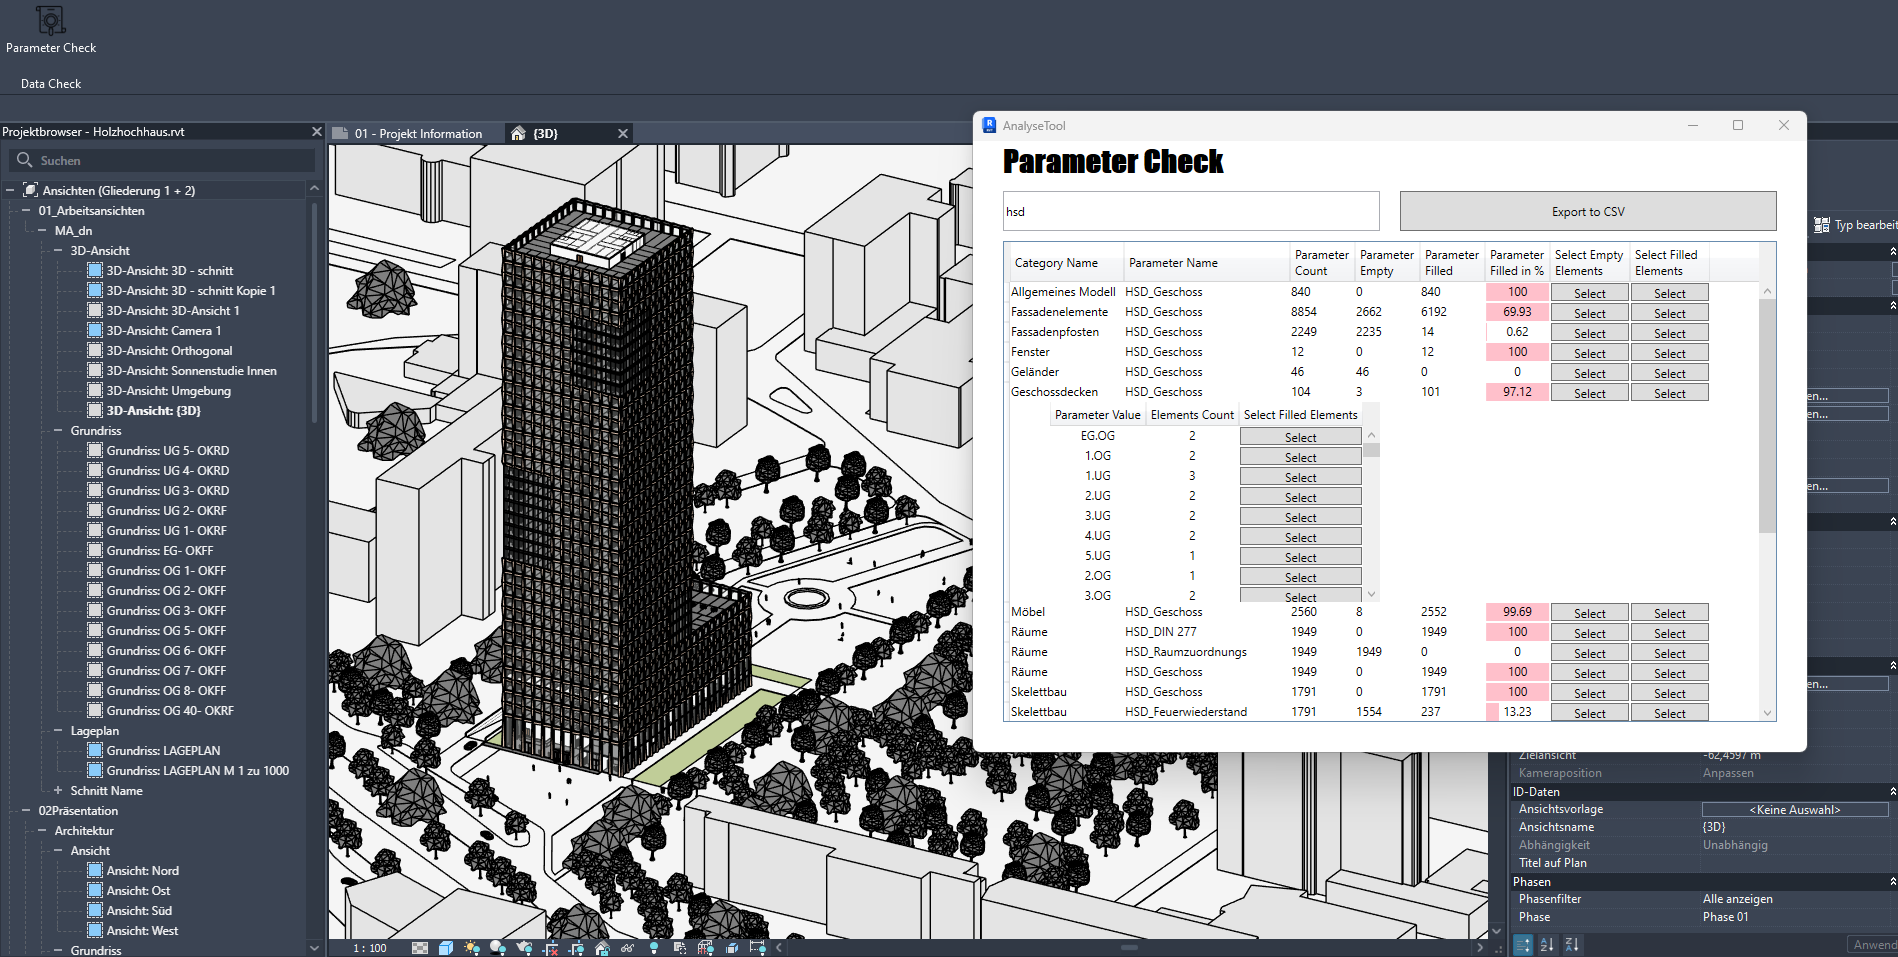
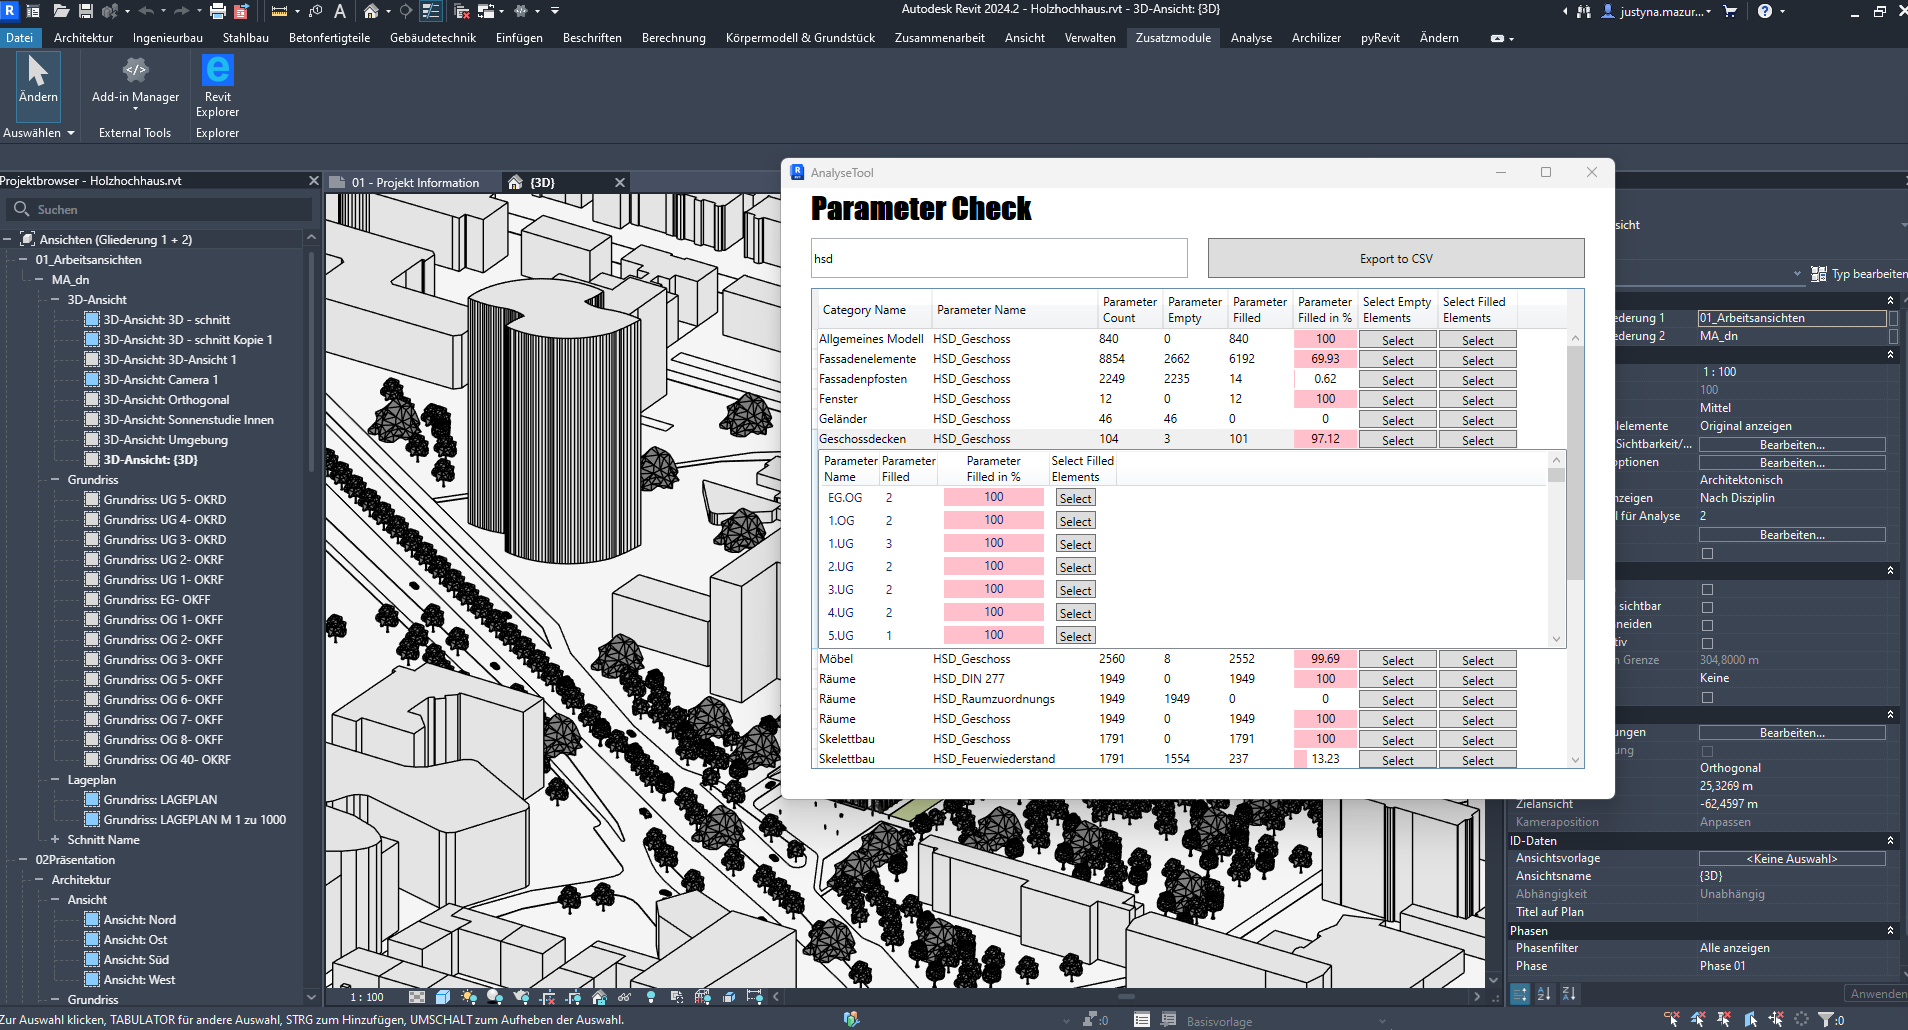
update to check filled data.

diff --git a/AnalyseTool/Views/SubViewAnalyseTool.xaml b/AnalyseTool/Views/SubViewAnalyseTool.xaml
@@ -62,8 +62,7 @@
                   CanUserDeleteRows="False"
                   x:Name="dataGridData"
                   GridLinesVisibility="None"
-                  Grid.Row="1"
-                  LoadingRow="DataGrid_LoadingRow">
+                  Grid.Row="1">
             
             <DataGrid.RowStyle>
                 <Style TargetType="DataGridRow">
@@ -163,8 +162,58 @@
              <!--RowDetailsTemplate to display child elements--> 
             <DataGrid.RowDetailsTemplate>
                 <DataTemplate>
-                    <ScrollViewer VerticalScrollBarVisibility="Auto" MaxHeight="200">
-                        <DataGrid ItemsSource="{Binding ChildParameters}"
+                    <Grid MaxHeight="200">
+
+                    <ListView ItemsSource="{Binding ChildParameters}"
+                                  d:ItemsSource="{d:SampleData ItemCount=2}"
+                                  Grid.Row="1"
+                                  x:Name="dataGridData">
+                            <ListView.View>
+                                <GridView>
+                                    <GridViewColumn>
+                                        <GridViewColumnHeader Content="Parameter&#10;Name"/>
+                                        <GridViewColumn.CellTemplate>
+                                            <DataTemplate>
+                                                <TextBlock Text="{Binding Name}"/>
+                                            </DataTemplate>
+                                        </GridViewColumn.CellTemplate>
+                                    </GridViewColumn>
+                                    <GridViewColumn>
+                                        <GridViewColumnHeader Content="Parameter&#10;Filled"/>
+                                        <GridViewColumn.CellTemplate>
+                                            <DataTemplate>
+                                                <TextBlock Text="{Binding ParameterFilled}"/>
+                                            </DataTemplate>
+                                        </GridViewColumn.CellTemplate>
+                                    </GridViewColumn>
+                                    <GridViewColumn>
+                                        <GridViewColumnHeader Content="Parameter&#10;Filled in %"/>
+                                        <GridViewColumn.CellTemplate>
+                                            <DataTemplate>
+                                                <Grid>
+                                                    <Rectangle Width="{Binding ParameterFilledProzent}" Height="18" Fill="Pink" HorizontalAlignment="Left"/>
+                                                    <TextBlock Text="{Binding ParameterFilledProzent}" HorizontalAlignment="Center"/>
+                                                </Grid>
+                                            </DataTemplate>
+                                        </GridViewColumn.CellTemplate>
+                                    </GridViewColumn>
+                                    <GridViewColumn>
+                                        <GridViewColumnHeader Content="Select Filled&#10;Elements"/>
+                                        <GridViewColumn.CellTemplate>
+                                            <DataTemplate>
+                                                <Button Width="40"
+                                            Height="18" 
+                                            Command="{Binding DataContext.SelectFilledElementsCommand, RelativeSource={RelativeSource AncestorType={x:Type UserControl}}}"
+                                            CommandParameter="{Binding}"
+                                            Content="Select" 
+                                            VerticalContentAlignment="Center"/>
+                                            </DataTemplate>
+                                        </GridViewColumn.CellTemplate>
+                                    </GridViewColumn>
+                                </GridView>
+                            </ListView.View>
+                        </ListView>
+                        <!--<DataGrid ItemsSource="{Binding ChildParameters}"
                                   d:ItemsSource="{d:SampleData}"
                                   AutoGenerateColumns="False"
                                   CanUserAddRows="False"
@@ -174,7 +223,8 @@
                                   MaxHeight="200"
                                   HorizontalAlignment="Left"
                                   Margin="40,0,0,0"
-                                  HeadersVisibility="Column">
+                                  HeadersVisibility="Column"
+                                  PreviewMouseLeftButtonDown="OnDetailsClick">
 
                             
                             <DataGrid.Columns>
@@ -206,8 +256,8 @@
                                     </DataGridTemplateColumn.CellTemplate>
                                 </DataGridTemplateColumn>
                             </DataGrid.Columns>
-                        </DataGrid>
-                    </ScrollViewer>
+                        </DataGrid>-->
+                    </Grid>
                 </DataTemplate>
                
             </DataGrid.RowDetailsTemplate>

diff --git a/AnalyseTool/Views/SubViewAnalyseTool.xaml.cs b/AnalyseTool/Views/SubViewAnalyseTool.xaml.cs
@@ -25,35 +25,61 @@ namespace AnalyseTool
             DataContext = ProgramContex.viewModel;
             InitializeComponent();
         }
-
         private void DataGridRow_MouseLeftButtonDown(object sender, MouseButtonEventArgs e)
         {
-            DataGridRow row = sender as DataGridRow;
+            // Получаем объект DataGridRow, на который кликнули
+            var clickedRow = sender as DataGridRow;
+            if (clickedRow == null) return;
 
-            if (row != null)
+            // Получаем DataGrid, в котором находится эта строка
+            DataGrid dataGrid = FindVisualParent<DataGrid>(clickedRow);
+            if (dataGrid == null) return;
+
+            // Проходим через все строки DataGrid
+            foreach (var item in dataGrid.Items)
             {
-                // Проверяем, открыта ли строка, и переключаем видимость RowDetails
-                if (row.DetailsVisibility == System.Windows.Visibility.Collapsed)
-                {
-                    row.DetailsVisibility = System.Windows.Visibility.Visible;
-                }
-                else
-                {
-                    row.DetailsVisibility = System.Windows.Visibility.Collapsed;
-                }
+                // Получаем строку для текущего элемента
+                DataGridRow row = dataGrid.ItemContainerGenerator.ContainerFromItem(item) as DataGridRow;
 
-                // Отмена стандартного выбора строки, если нужно
-                e.Handled = true;
+                if (row != null)
+                {
+                    // Проверяем контекст данных строки
+                    var parameterDefinition = row.DataContext as ParameterDefinition;
+
+                    // Если это та строка, по которой кликнули
+                    if (row == clickedRow)
+                    {
+                        // Проверяем, есть ли элементы в ChildParameters
+                        if (parameterDefinition != null && parameterDefinition.ParameterFilled > 0)
+                        {
+                            row.DetailsVisibility = System.Windows.Visibility.Visible;
+                        }
+                    }
+                    else
+                    {
+                        // Сворачиваем все остальные строки
+                        row.DetailsVisibility = System.Windows.Visibility.Collapsed;
+                    }
+                }
             }
         }
-        // Обработчик события LoadingRow для DataGrid
-        private void DataGrid_LoadingRow(object sender, DataGridRowEventArgs e)
+        // Вспомогательный метод для нахождения родительского элемента
+        private static T FindVisualParent<T>(DependencyObject child) where T : DependencyObject
         {
-            // Ваша логика для обработки загрузки строки
-            // Например, вы можете настроить или стилизовать строку
-            var row = e.Row;
-            // Пример: можно настроить цвет строки или применить другие действия
-        }
+            // Получаем родителя
+            DependencyObject parentObject = VisualTreeHelper.GetParent(child);
 
+            // Если нет родителя, возвращаем null
+            if (parentObject == null) return null;
+
+            // Если родитель нужного типа, возвращаем его
+            if (parentObject is T parent)
+            {
+                return parent;
+            }
+
+            // Если родитель не нужного типа, повторяем поиск
+            return FindVisualParent<T>(parentObject);
+        }
     }
 }
